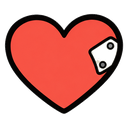
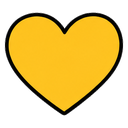
Coloured ink symbols for statuses, effects, triggers and glossary terms
54 new symbol pictures in apps/client/art/ui (six sheets), DNA helix for
organic, beetle for swarm, yellow heart. Pictures fade where a screen asks
for the dim colour; buff and debuff chips are dark with a green or red frame.

Claude-Session: https://claude.ai/code/session_01XFXXMjtzERxn3nzig2eGWW

diff --git a/apps/client/src/scenes/battle.ts b/apps/client/src/scenes/battle.ts
@@ -3,7 +3,7 @@ import { Container, Graphics, Rectangle, type Text } from "pixi.js";
 import { BUFFS, DEBUFFS, Replay, buildOf, compile, leagueOf, simulate, type BattleEvent, type CSide, type Status } from "@backpack-space/core";
 import type { Game, Scene } from "../game";
 import { C, H, W } from "../theme";
-import { icon } from "../icons";
+import { hasArt, icon } from "../icons";
 import { at, box, disc, screenFill, tappable, txt } from "../ui";
 import { piece, starMarks } from "../pieces";
 import { resultScene } from "./results";
@@ -177,11 +177,14 @@ export function battleScene(game: Game, saved?: SavedFight): Scene {
         for (const k of STATUSES) {
           if (s.st[k] <= 0) continue;
           const buff = (BUFFS as readonly string[]).includes(k);
-          const n = txt(s.st[k], 13, { color: buff ? C.bg : C.text, anchor: [0, 0.5] });
+          // coloured pictures sit on a dark chip framed green (buff) or red (debuff); line symbols keep the inverted chip
+          const art = hasArt(k);
+          const light = buff && !art;
+          const n = txt(s.st[k], 13, { color: light ? C.bg : C.text, anchor: [0, 0.5] });
           const w = 4 + 15 + 3 + n.width + 6;
           v.chips.addChild(
-            at(box(w, 24, { fill: buff ? C.text : C.bg, line: C.text, radius: 7 }), x, 0),
-            at(icon(k, 15, buff ? C.bg : C.text), x + 11.5, 12),
+            at(box(w, 24, { fill: light ? C.text : C.bg, line: art ? (buff ? C.good : C.bad) : C.text, radius: 7 }), x, 0),
+            at(icon(k, art ? 17 : 15, light ? C.bg : C.text), x + 11.5, 12),
             at(n, x + 22, 12),
           );
           x += w + 5;

diff --git a/apps/client/src/pieces.ts b/apps/client/src/pieces.ts
@@ -6,7 +6,7 @@ import { Container, Graphics, Sprite } from "pixi.js";
 import { artTexture } from "./art";
 import { PET_KINDS, starLinks, type GameData, type ItemDef, type Placement, type StarLink } from "@backpack-space/core";
 import { C, COMIC, RARITY, TAG_FILL } from "./theme";
-import { icon } from "./icons";
+import { hasArt, icon } from "./icons";
 import { at, disc, txt } from "./ui";
 import type { Chip, Row } from "./symbols";
 import { tr } from "./i18n";
@@ -150,8 +150,12 @@ export function chip(ch: Chip, size = 32): { node: Container; w: number } {
     return { node: c, w: x + size * 0.55 };
   }
   const buff = ch.kind === "buff";
-  const g = new Graphics().roundRect(0, 0, size, size, size * 0.25).fill(buff ? C.text : C.bg).stroke({ width: 1.5, color: C.text, alignment: 1 });
-  c.addChild(g, at(icon(ch.icon, size * 0.58, buff ? C.bg : C.text), size / 2, size / 2));
+  // a coloured picture cannot be inverted: it sits on a dark chip, framed green (buff) or red (debuff)
+  const art = hasArt(ch.icon);
+  const g = art
+    ? new Graphics().roundRect(0, 0, size, size, size * 0.25).fill(C.bg).stroke({ width: 2, color: buff ? C.good : C.bad, alignment: 1 })
+    : new Graphics().roundRect(0, 0, size, size, size * 0.25).fill(buff ? C.text : C.bg).stroke({ width: 1.5, color: C.text, alignment: 1 });
+  c.addChild(g, at(icon(ch.icon, size * (art ? 0.66 : 0.58), buff ? C.bg : C.text), size / 2, size / 2));
   let w = size;
   if (label) { label.style.fontSize = size * 0.56; c.addChild(at(label, size + 4, size / 2)); w += 4 + label.width; }
   return { node: c, w };

diff --git a/apps/client/src/icons.ts b/apps/client/src/icons.ts
@@ -1,6 +1,7 @@
 /** Placeholder symbols: simple white line icons drawn from SVG paths, tinted when used. Real art replaces them later. */
 import { Sprite, Texture } from "pixi.js";
 import { artTexture } from "./art";
+import { C } from "./theme";
 
 const HEART = "M12 20s-7-4.5-7-10a4 4 0 0 1 7-2.5A4 4 0 0 1 19 10c0 5.5-7 10-7 10z";
 const STAR = "M12 3l2.6 5.6l6 .7l-4.5 4.1l1.3 6l-5.4-3.1l-5.4 3.1l1.3-6L3.4 9.3l6-.7z";
@@ -138,12 +139,20 @@ export const hasIcon = (name: string) => textures.has(name);
  * A square icon sprite of the given size, anchored at its centre. The main symbols have a coloured ink picture
  * (`art/ui/<name>.png`, docs/client-art.md); it keeps its own colours, so `tint` only colours the line symbols.
  */
+/** True when a coloured picture exists for the symbol (art/ui/<name>.png). */
+export function hasArt(name: string): boolean {
+  return artTexture(`ui/${name}`) !== null;
+}
+
 export function icon(name: IconName, size: number, tint = 0xffffff): Sprite {
   const art = artTexture(`ui/${name}`);
   const s = new Sprite(art ?? textures.get(name) ?? textures.get("any") ?? Texture.WHITE);
   s.anchor.set(0.5);
   s.width = size; s.height = size;
-  if (art) s.scale.set((size * 1.15) / art.width);
-  else s.tint = tint;
+  if (art) {
+    s.scale.set((size * 1.15) / art.width);
+    // a picture keeps its colours; where a screen asks for the dim or line colour (inactive, not reached) it fades instead
+    if (tint === C.dim || tint === C.line) s.alpha = 0.45;
+  } else s.tint = tint;
   return s;
 }

diff --git a/docs/client-art.md b/docs/client-art.md
@@ -10,7 +10,7 @@ keeps its placeholder symbol, so pictures can be added one by one.
 | `art/space.jpg` | star field behind every menu background | 1080×1920, JPEG |
 | `art/planets/<place>.jpg` | surface map of a place in `lore/planets.json` | 2048×1024 (2:1), JPEG, left edge continues the right edge |
 | `art/items/<item id>.png` | item picture, replaces the type symbol and initials on the tile (`src/pieces.ts`) | 176 px per cell of the unturned shape (a 1×2 item is 176×352), PNG with transparent background; the client turns it with the item |
-| `art/ui/<symbol>.png` | coloured ink symbol that replaces the line symbol of the same name (`icon()` in `src/icons.ts`): coin, credits, galaxy, patch, heartFull, heart, energy, level, dice, bin, pin, settings, and the item types (ranged, armor, accessory, pet, beast, swarm, food, mechanical, organic; `weapon` is kept for the glossary) | 128×128, PNG with transparent background; made as sheets of four or nine (OpenArt, 2k high) on flat light grey and cut out |
+| `art/ui/<symbol>.png` | coloured ink symbol that replaces the line symbol of the same name (`icon()` in `src/icons.ts`; `hasArt()` tells whether one exists): main symbols, item types (`weapon` only for the glossary), statuses, effects, triggers, glossary and menu terms; full list in the folder | 128×128, PNG with transparent background; made as sheets of four or nine (OpenArt, 2k high) on flat light grey and cut out |
 | `art/heroes/<hero id>.webp`, `art/heroes/<hero id>-head.webp` | hero full body (hero choice, 200×240 pt) and round head picture (hero ring and every hero badge, cut to a circle by `heroHead` in `src/ui.ts`); made with `.claude/skills/hero-art/SKILL.md` | full body fits 600×720, head 256×256, WebP with transparent background |
 
 ## Menu backgrounds

diff --git a/docs/theme.md b/docs/theme.md
@@ -89,9 +89,11 @@ sharp on every phone and follows this theme. Sizes live in `comic`.
   `shield` strip on top, Energy in `gold`. Lost health stays a moment as a light chunk.
 - **Bags:** a stitched seam inside the outline, like sewn cloth; the cell grid inside is faint.
 - **Shop cards:** rarity is a coloured corner with one pip per rarity step; the price is the coin symbol; the item's types sit small in the lower right corner (up to three), because an item picture shows no type. A weapon shows melee or ranged, never "weapon" (`typeIcons` in `src/pieces.ts`, also in the item popup).
-- **Main symbols are pictures:** gold, Credits, Galaxies, league patch, full and empty heart, Energy, level,
-  dice, bin, pin, settings and the item types are coloured ink pictures in `apps/client/art/ui/` (docs/client-art.md). They keep
-  their colours; all other symbols stay tinted line symbols.
+- **Symbols are pictures:** almost every symbol (gold, Credits, Galaxies, hearts, Energy, item types, statuses,
+  effects, triggers, glossary terms, menu entries) is a coloured ink picture in `apps/client/art/ui/` (docs/client-art.md).
+  A picture keeps its colours: where a screen asks for the `dim` or `line` colour (inactive, not reached) it fades to
+  45 % instead. Buff and debuff chips (item rules, fight statuses) are dark with a `good` or `bad` frame, because a
+  picture cannot be inverted. Symbols without a picture stay tinted line symbols.
 
 ## Rarity
 
